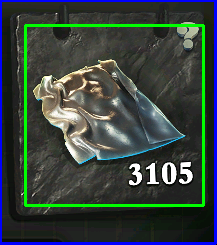
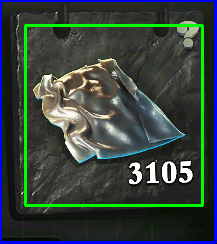
Auto update: 09:09:23

diff --git a/tracker/macro.py b/tracker/macro.py
@@ -190,7 +190,7 @@ def check_active_border_and_get_center(center_x, center_y):
     screen_color = capture_screen(is_color=True)
     if screen_color is None: return False, None, None
     
-    # 🔥 [수정] 박스 높이 축소 (247 -> 244)
+    # 🔥 [수정] 파란색 외부 박스 높이 축소 (247 -> 244)
     box_w = int(217 * SCALE_RATIO) 
     box_h = int(244 * SCALE_RATIO) 
     
@@ -230,8 +230,8 @@ def check_active_border_and_get_center(center_x, center_y):
     y2 = min(mh, cy + gap_h)
     x1 = max(0, cx - gap_w)
     
-    # 🔥 [수정] 초록색 마스크 우측을 왼쪽으로 3px 당김 (확실한 변화)
-    x2 = min(mw, cx + gap_w - int(3 * SCALE_RATIO))
+    # 🔥 [수정] 초록색 마스크 우측을 왼쪽으로 2px 더 당김 (총 5px)
+    x2 = min(mw, cx + gap_w - int(5 * SCALE_RATIO))
     
     mask[y1:y2, x1:x2] = 0
     
@@ -277,10 +277,10 @@ def _read_single_count(center_x, center_y):
     screen_gray = cv2.cvtColor(screen_color, cv2.COLOR_BGR2GRAY)
     
     # 🔥 [수정] OCR 박스 위치 상향 조정 (UP)
-    # 이전값: -45 (너무 아래) -> -39 (위로 올림)
+    # 이전값: -39 -> -41 (위로 2px 더 올림)
     
     offset_x = int(12 * SCALE_RATIO)     
-    offset_y = int(-39 * SCALE_RATIO)   
+    offset_y = int(-41 * SCALE_RATIO)   
     
     w = int(105 * SCALE_RATIO) 
     h = int(45 * SCALE_RATIO)  
